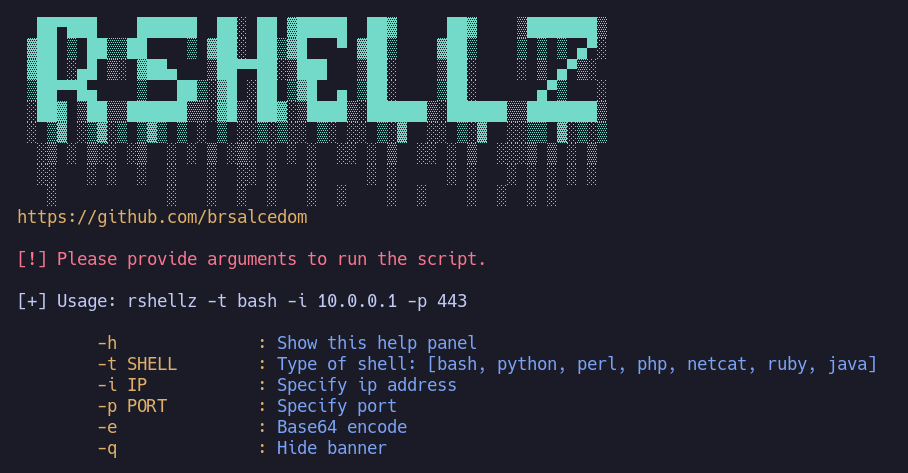
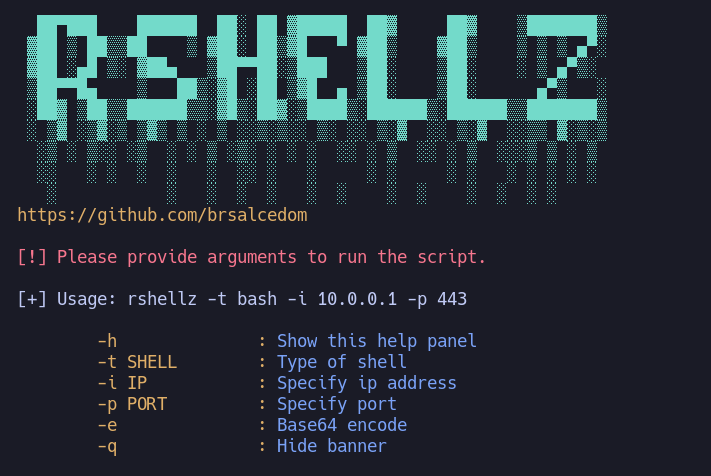
Update README

diff --git a/README.md b/README.md
@@ -35,7 +35,7 @@ The basic usage requires a shell type `-t`, local ip address `-i` and local port
 
 ```
 	-h		: Show this help panel
-	-t SHELL	: Type of shell: [bash, python, perl, php, netcat, ruby, java]
+	-t SHELL	: Type of shell
 	-i IP		: Specify ip address
 	-p PORT		: Specify port
 	-e		: Base64 encode
